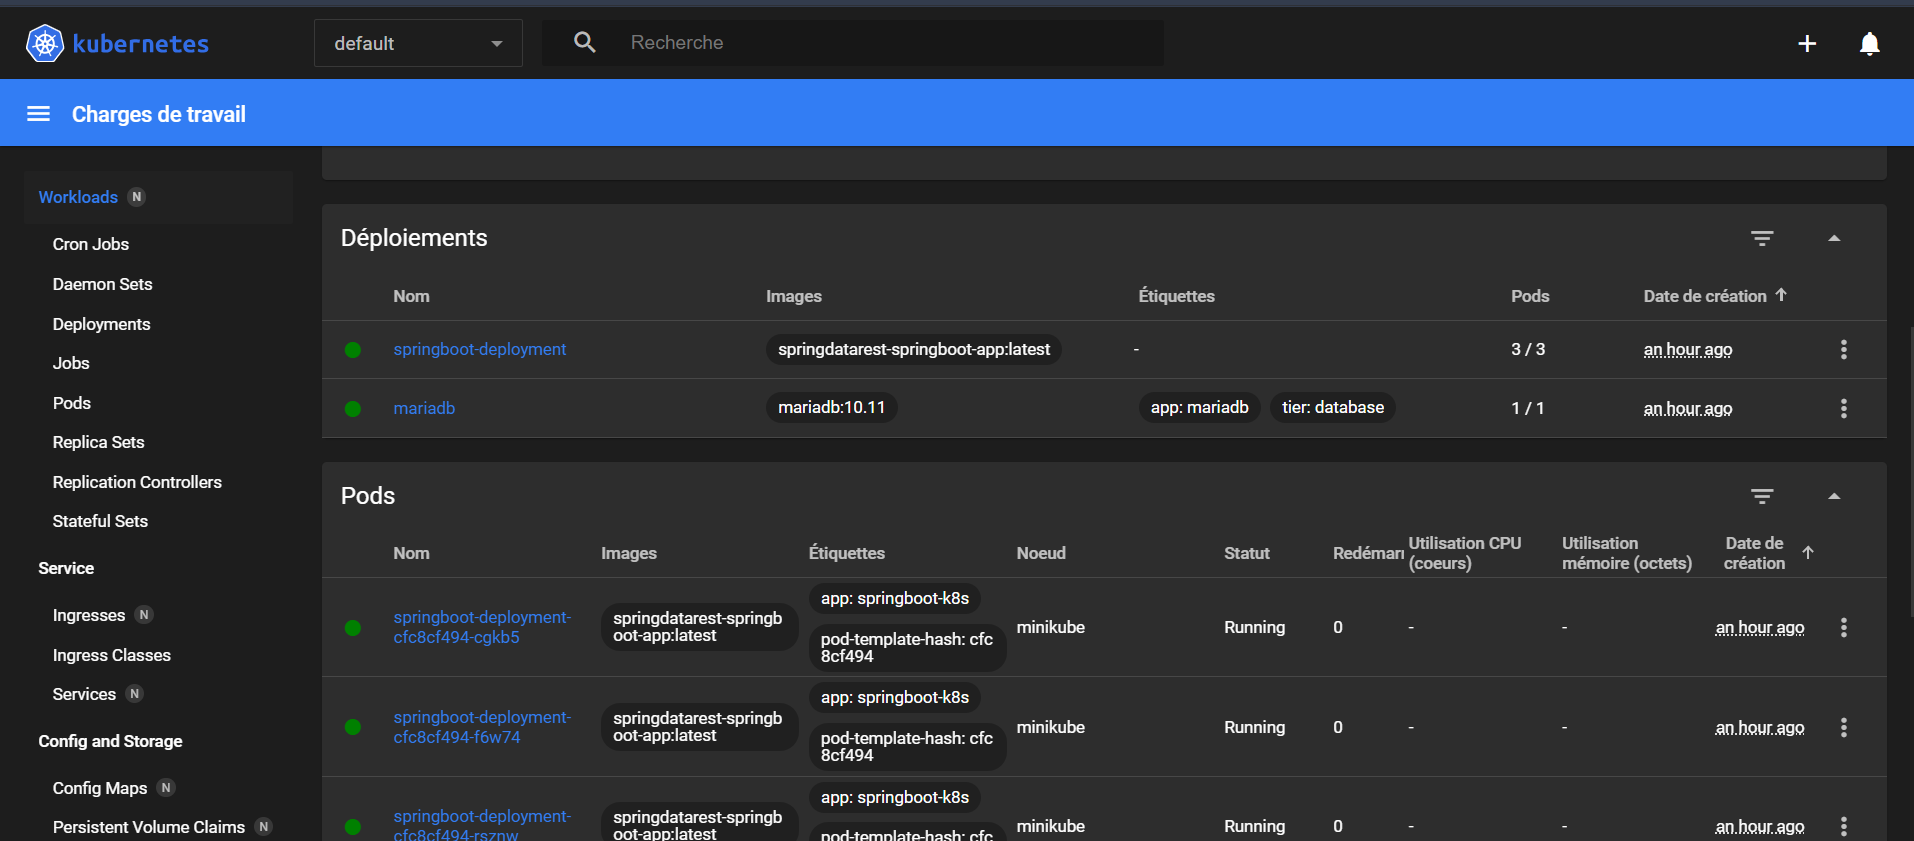
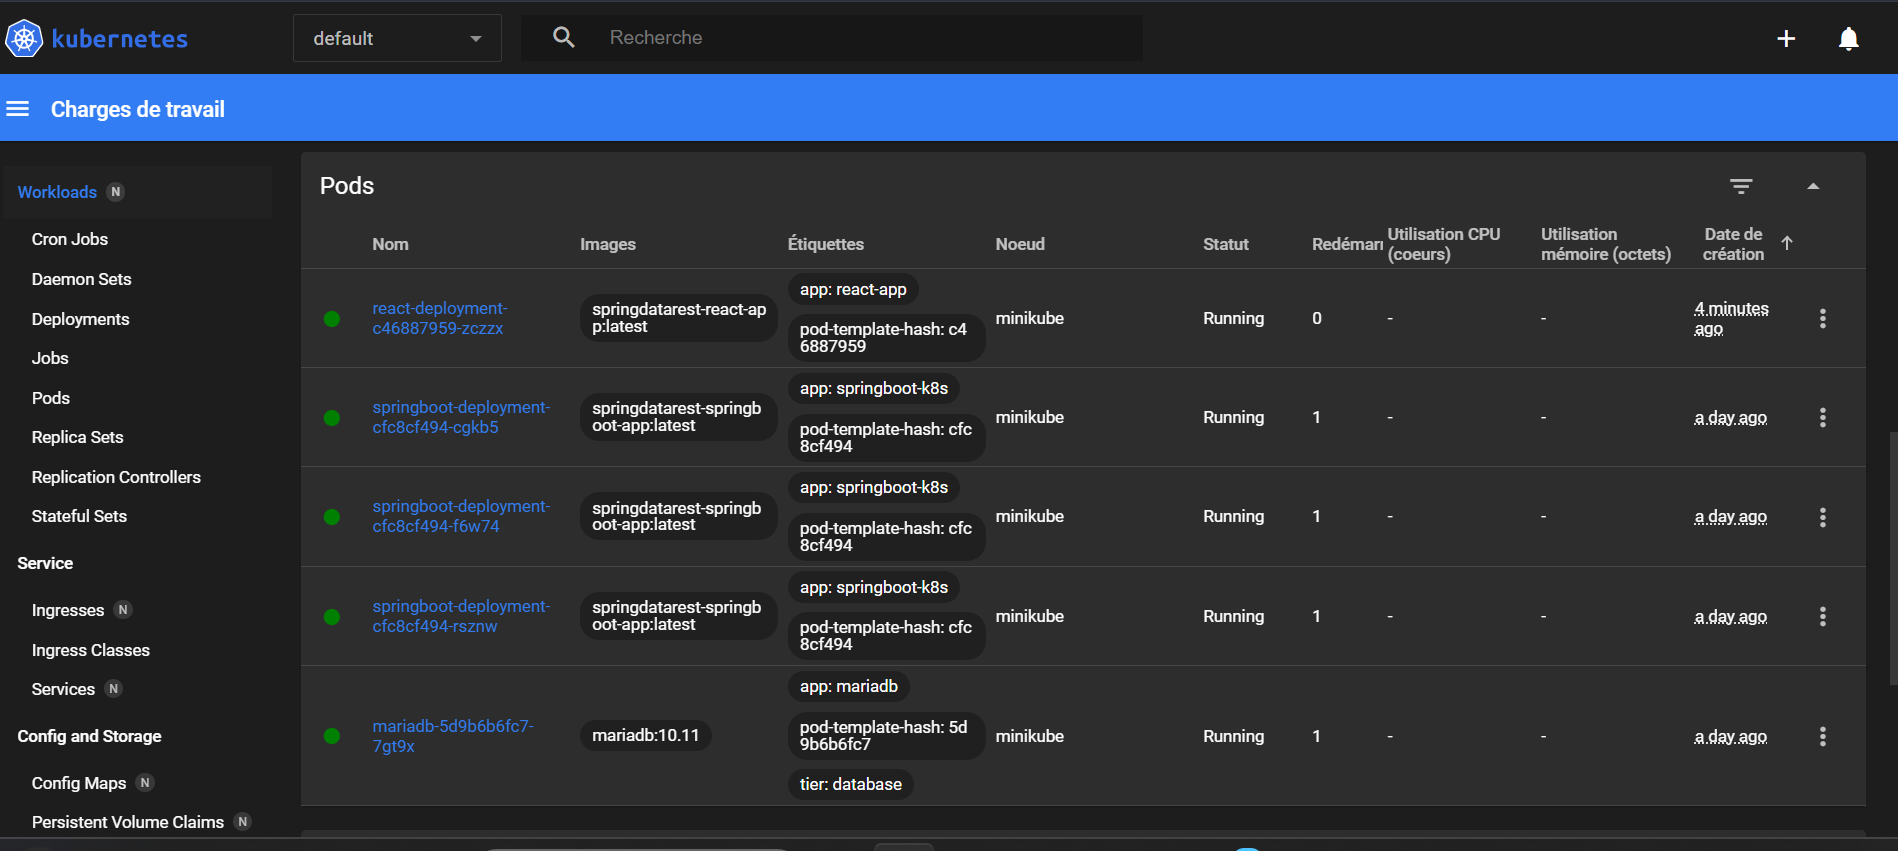
modif ajout pod react

diff --git a/readme.md b/readme.md
@@ -117,6 +117,13 @@ Mot de passe : admin
 
 ---
 
+## Screenshots — Docker Compose
+
+![Application React](img.png)
+![Swagger UI](img_4.png)
+
+---
+
 ## Exemples de questions pour l'assistant IA
 
 - *"Quelle est la voiture la moins chère ?"*
@@ -131,7 +138,7 @@ Mot de passe : admin
 ## Commandes utiles — Docker Compose
 
 ```bash
-# Arrêter les containers sans les supprimer (usage quotidien)
+# Arrêter les containers sans les supprimer
 docker-compose stop
 
 # Redémarrer les containers arrêtés
@@ -149,8 +156,7 @@ docker-compose up -d --build
 # Tout supprimer (containers + volumes + données)
 docker-compose down -v
 ```
-![img.png](img.png)
-![img_4.png](img_4.png)
+
 ---
 
 ## Déploiement Kubernetes (Minikube)
@@ -170,8 +176,12 @@ Minikube Node
 │   ├── Container : springdatarest-springboot-app:latest
 │   └── Service   : NodePort :8080
 │
+├── Pod react-deployment (x1 replica)
+│   ├── Container : springdatarest-react-app:latest
+│   └── Service   : NodePort :80
+│
 ├── ConfigMap : db-config (host, dbName)
-└── Secret    : mariadb-secrets (username, password)
+└── Secret    : mariadb-secrets (username, password encodés base64)
 ```
 
 ### Fichiers YAML
@@ -180,6 +190,7 @@ Minikube Node
 |---|---|
 | `k8s/db-deployment.yaml` | PVC + Deployment + Service MariaDB |
 | `k8s/app-deployment.yaml` | Deployment + Service Spring Boot (3 replicas) |
+| `k8s/react-deployment.yaml` | Deployment + Service React (1 replica) |
 | `k8s/configmap.yaml` | Variables de configuration (host, dbName) |
 | `k8s/secret.yaml` | Credentials encodés en base64 |
 
@@ -198,7 +209,7 @@ minikube start --driver=docker
 # Vérifier le statut
 minikube status
 
-# Pointer Docker vers Minikube 
+# Pointer Docker vers Minikube (obligatoire avant le build)
 minikube docker-env | Invoke-Expression
 ```
 
@@ -212,7 +223,7 @@ docker build -t springdatarest-springboot-app:latest .
 docker build -t springdatarest-react-app:latest -f Dockerfile.react .
 ```
 
-### Déploiement
+### Déploiement dans l'ordre
 
 ```powershell
 # 1. ConfigMap et Secret
@@ -224,12 +235,15 @@ kubectl apply -f k8s/db-deployment.yaml
 
 # 3. Backend Spring Boot
 kubectl apply -f k8s/app-deployment.yaml
+
+# 4. Frontend React
+kubectl apply -f k8s/react-deployment.yaml
 ```
 
 ### Vérification
 
 ```powershell
-# État des pods
+# État des pods (doit afficher 5 pods : 1 mariadb + 3 springboot + 1 react)
 kubectl get pods
 
 # État des services
@@ -238,29 +252,47 @@ kubectl get svc
 # État des volumes
 kubectl get pvc
 
+# ConfigMap et Secrets
+kubectl get configmap
+kubectl get secrets
+
 # Logs Spring Boot
 kubectl logs deployment/springboot-deployment
-
-# Dashboard visuel
-minikube dashboard
 ```
 
 ### Accès à l'application
 
 ```powershell
-# Obtenir l'URL du service Spring Boot
+# URL Spring Boot
 minikube service springboot-svc --url
+
+# URL React
+minikube service react-svc --url
 ```
 
-L'URL générée (ex: `http://127.0.0.1:57596`) permet de tester les endpoints dans Postman :
+Tester les endpoints dans Postman :
 
 ```
-GET http://127.0.0.1:57596/voitures
-GET http://127.0.0.1:57596/api/voitures
+GET http://127.0.0.1:<port>/voitures
+GET http://127.0.0.1:<port>/api/voitures
 ```
+
+### Dashboard Kubernetes
+
+```powershell
+minikube dashboard
+```
+
+---
+
+## Screenshots — Kubernetes Dashboard
+
 ![img_1.png](img_1.png)
 ![img_2.png](img_2.png)
 ![img_3.png](img_3.png)
+
+---
+
 ### Arrêt du cluster
 
 ```powershell